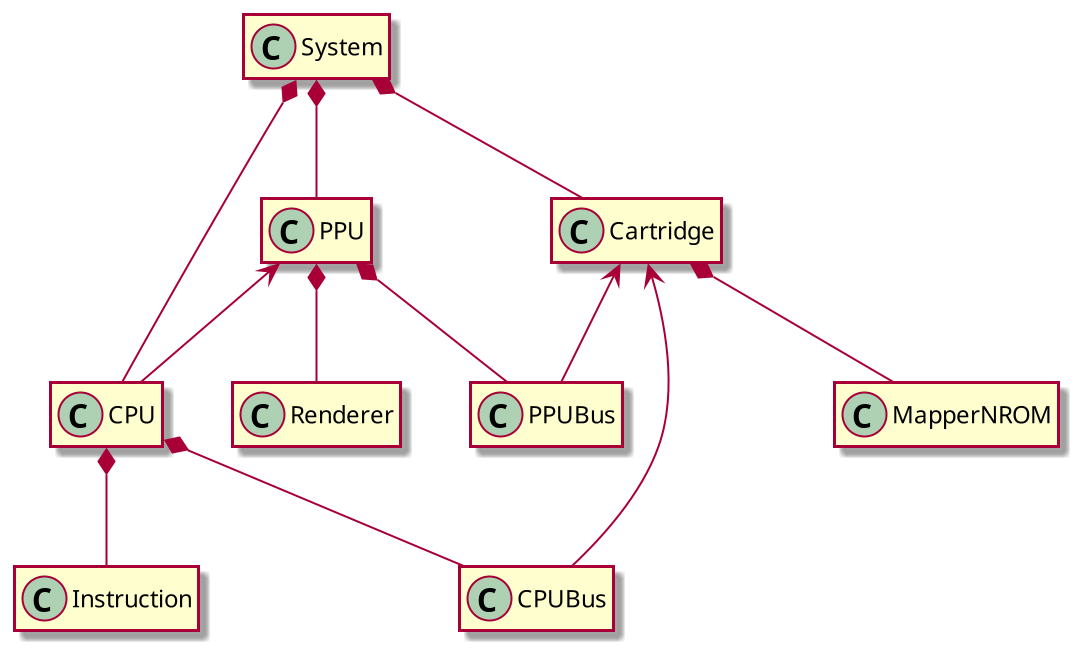
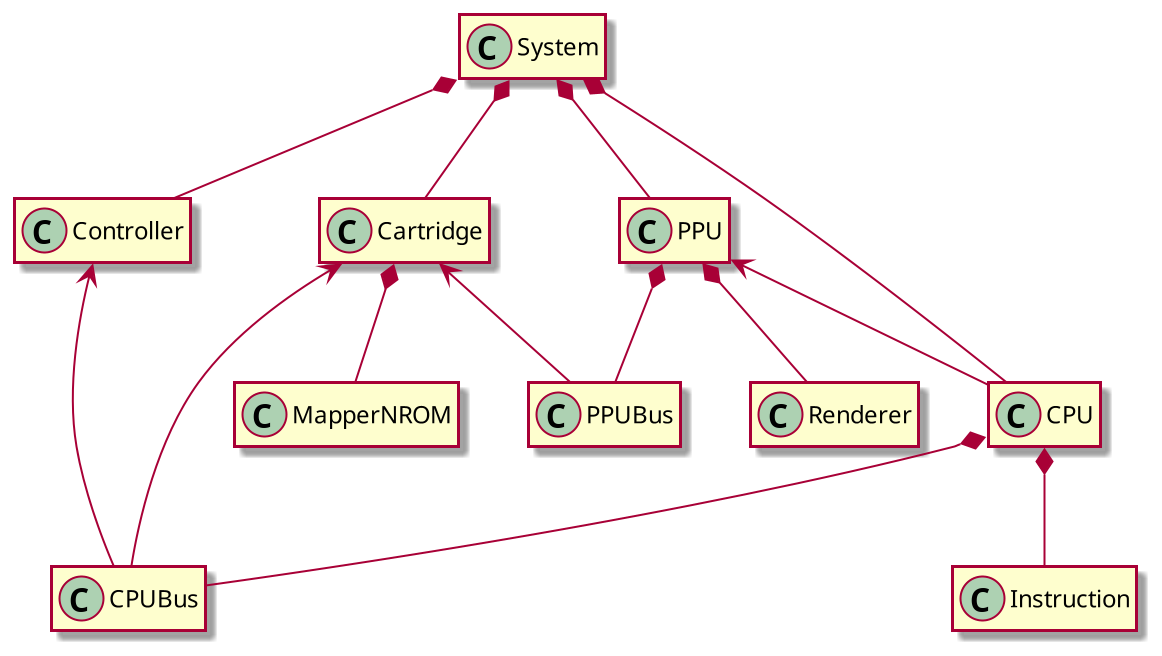
Add Controller class diagram

diff --git a/include/system/controller.h b/include/system/controller.h
@@ -8,7 +8,7 @@
 
 class Controller {
 public:
-    enum Button {
+    enum class Button {
         A,
         B,
         Select,
@@ -19,12 +19,13 @@ public:
         Right,
     };
 
-    bool strobe;
-    uint8_t buttons_state {0x00};
 
-
-    void handle_state_write(uint8_t data);
+    void    handle_state_write(uint8_t data);
     uint8_t handle_state_read();
+
+private:
+    bool strobe {false};
+    uint8_t buttons_state {0x00};
 };
 
 namespace ControllerKeys

diff --git a/src/system/controller.cpp b/src/system/controller.cpp
@@ -2,11 +2,17 @@
 
 #include <SFML/Window/Keyboard.hpp>
 
+
 namespace
 {
     uint8_t first_bit_mask {0b0000'0001};
     uint8_t msb_mask {0b1000'0000};
 }
+
+
+/////////
+// API //
+/////////
 
 void Controller::handle_state_write(uint8_t data)
 {
